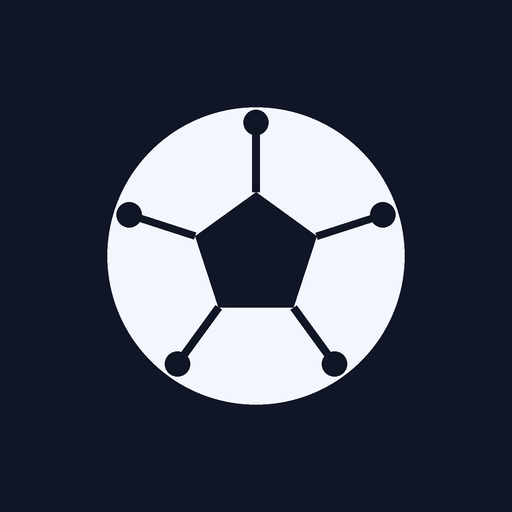
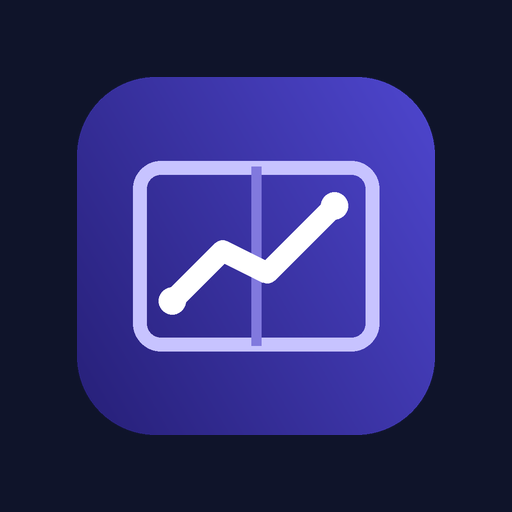
feat(web): refresh branding and add social previews

diff --git a/apps/web/src/app/page.tsx b/apps/web/src/app/page.tsx
@@ -1,44 +1,46 @@
 import { useTranslations } from 'next-intl'
+import Image from 'next/image'
 import Link from 'next/link'
 import { Container } from '@/components/ui/grid'
 import { Button } from '@/components/ui/button'
 import { ArrowRight } from 'lucide-react'
 import { PlatformOverview } from '@/components/home/PlatformOverview'
+import stadium from '@/assets/brand/stadium.webp'
 
 export default function Home() {
   const t = useTranslations('Home')
   return (
-    <div className="flex flex-col gap-16 pb-16">
-      {/* Hero Section */}
-      <section className="relative overflow-hidden pt-24 lg:pt-32">
-        <div className="absolute inset-0 bg-grid-white/[0.02] bg-[size:32px_32px] dark:bg-grid-black/[0.02]" />
-        <Container className="relative z-10 flex flex-col items-center text-center">
-          <div className="inline-flex items-center rounded-full border border-primary/20 bg-primary/10 px-3 py-1 text-sm font-medium text-primary mb-8 animate-fade-in">
-            <span className="flex h-2 w-2 rounded-full bg-primary mr-2 animate-pulse" />
+    <div className="flex flex-col gap-12 pb-12 lg:pb-16">
+      <section className="pt-10 sm:pt-16 lg:pt-20">
+        <Container className="flex flex-col items-center text-center">
+          <div className="mb-5 inline-flex items-center gap-2 rounded-full border border-primary/20 bg-primary/10 px-3 py-1 text-sm font-medium text-primary sm:mb-7">
+            <span aria-hidden="true" className="size-2 shrink-0 rounded-full bg-primary motion-safe:animate-pulse" />
             {t('live')}
           </div>
-          <h1 className="text-4xl font-extrabold tracking-tight sm:text-5xl md:text-6xl lg:text-7xl mb-6 max-w-4xl animate-slide-in">
+          <h1 className="mb-4 max-w-4xl text-4xl font-extrabold tracking-tight sm:text-5xl md:text-6xl lg:text-7xl">
             {t('hero')} <br className="hidden sm:block" />
-            <span className="text-gradient">{t('heroBrand')}</span>
+            <span className="text-primary">{t('heroBrand')}</span>
           </h1>
-          <p className="max-w-2xl text-lg text-muted-foreground sm:text-xl mb-10 animate-slide-in [animation-delay:150ms]">
+          <p className="mb-7 max-w-2xl text-base text-muted-foreground sm:text-xl">
             {t('description')}
           </p>
-          <div className="flex flex-col sm:flex-row gap-4 animate-slide-in [animation-delay:300ms]">
+          <Button asChild size="lg" className="h-12 gap-2 px-8 text-base">
             <Link href="/matches">
-              <Button size="lg" className="h-12 px-8 text-base shadow-lg shadow-primary/20 transition-transform hover:scale-105">
-                {t('start')} <ArrowRight className="ml-2 h-4 w-4" />
-              </Button>
+              {t('start')} <ArrowRight className="size-4" aria-hidden="true" />
             </Link>
+          </Button>
+          <div className="relative mt-8 aspect-[16/10] w-full max-w-6xl overflow-hidden rounded-xl border bg-muted sm:mt-10 sm:aspect-[3/1]">
+            <Image
+              src={stadium}
+              alt=""
+              fill
+              preload
+              unoptimized
+              className="object-cover object-[center_64%]"
+            />
           </div>
         </Container>
       </section>
-
-      {/* Decorative line */}
-      <div className="w-full flex justify-center overflow-hidden">
-        <div className="w-full max-w-7xl h-px line-t opacity-50" />
-      </div>
-
       <PlatformOverview />
     </div>
   )

diff --git a/apps/web/src/components/navigation/Header.tsx b/apps/web/src/components/navigation/Header.tsx
@@ -4,6 +4,7 @@ import Link from 'next/link'
 import { usePathname } from 'next/navigation'
 import { Menu } from 'lucide-react'
 import { useTranslations } from 'next-intl'
+import { BrandLink } from './BrandLink'
 import { GlobalSearch } from './GlobalSearch'
 import { PwaInstall } from './PwaInstall'
 import { LanguageSwitch } from './LanguageSwitch'
@@ -29,7 +30,7 @@ function Navigation({ mobile = false }: { mobile?: boolean }) {
   const active = [...links].reverse().find(({ href }) => pathname === href || pathname.startsWith(`${href}/`))
 
   return (
-    <nav aria-label={t('primary')} className={mobile ? 'grid gap-1' : 'hidden items-center gap-4 lg:flex'}>
+    <nav aria-label={t('primary')} className={mobile ? 'grid gap-1' : 'hidden items-center gap-4 xl:flex'}>
       {links.map(({ href, label }) => {
         const link = (
           <Link
@@ -56,7 +57,7 @@ export function Header() {
   return (
     <header className="sticky top-0 z-50 w-full border-b border-border/40 bg-background/95 backdrop-blur">
       <div className="container mx-auto flex h-16 items-center justify-between gap-4 px-4 sm:px-6 lg:px-8">
-        <Link href="/" className="shrink-0 whitespace-nowrap text-xl font-bold tracking-tighter">FA Pro</Link>
+        <BrandLink />
         <Navigation />
         <div className="flex shrink-0 items-center gap-1">
           <PwaInstall />
@@ -65,7 +66,7 @@ export function Header() {
           <ThemeToggle />
           <Dialog>
             <DialogTrigger asChild>
-              <Button className="lg:hidden" variant="ghost" size="icon" aria-label={t('menu')}>
+              <Button className="xl:hidden" variant="ghost" size="icon" aria-label={t('menu')}>
                 <Menu className="size-5" aria-hidden="true" />
               </Button>
             </DialogTrigger>

diff --git a/apps/web/src/app/layout.tsx b/apps/web/src/app/layout.tsx
@@ -14,10 +14,23 @@ const inter = Inter({
   variable: '--font-inter',
 })
 
+const title = 'Football Analytics Pro'
+const description = 'Follow live football scores, explore match insights, and compare player statistics.'
+const socialPreview = {
+  url: '/social-preview.jpg',
+  width: 1200,
+  height: 630,
+  alt: 'Football Analytics Pro — live scores, match insights, and player stats',
+}
+const deploymentHost = process.env.VERCEL_PROJECT_PRODUCTION_URL || process.env.VERCEL_URL
+
 export const metadata: Metadata = {
-  title: 'Football Analytics Pro',
-  description:
-    'Premium football analytics and data insights platform.',
+  metadataBase: new URL(process.env.NEXT_PUBLIC_APP_URL?.trim() ||
+    (deploymentHost ? `https://${deploymentHost}` : 'http://localhost:3000')),
+  title,
+  description,
+  openGraph: { type: 'website', siteName: title, title, description, images: [socialPreview] },
+  twitter: { card: 'summary_large_image', title, description, images: [socialPreview] },
 }
 
 export default async function RootLayout({

diff --git a/apps/web/src/app/login/page.tsx b/apps/web/src/app/login/page.tsx
@@ -8,6 +8,7 @@ import { signIn } from 'next-auth/react'
 import { useSearchParams } from 'next/navigation'
 import { Suspense } from 'react'
 import Link from 'next/link'
+import { BrandLink } from '@/components/navigation/BrandLink'
 import { Button } from '@/components/ui/button'
 import { Input } from '@/components/ui/input'
 import { Label } from '@/components/ui/label'
@@ -56,12 +57,8 @@ function LoginForm() {
   return (
     <div className="min-h-screen flex items-center justify-center bg-background px-4">
       <div className="w-full max-w-md">
-        {/* Logo / Brand */}
         <div className="text-center mb-8">
-          <Link href="/" className="inline-flex items-center gap-2 text-primary font-bold text-2xl">
-            <span className="text-3xl">⚽</span>
-            Football Analytics
-          </Link>
+          <BrandLink fullName />
           <p className="text-muted-foreground text-sm mt-2">{t('access')}</p>
         </div>
 

diff --git a/apps/web/src/components/navigation/BrandLink.tsx b/apps/web/src/components/navigation/BrandLink.tsx
@@ -1,0 +1,20 @@
+import Image from 'next/image'
+import Link from 'next/link'
+import mark from '@/assets/brand/mark.png'
+import { cn } from '@/lib/utils'
+
+export function BrandLink({ fullName = false }: { fullName?: boolean }) {
+  const size = fullName ? 40 : 32
+
+  return (
+    <Link href="/" className={cn(
+      'inline-flex shrink-0 items-center gap-2 rounded-md font-bold tracking-tight focus-visible:outline-2 focus-visible:outline-offset-4 focus-visible:outline-ring',
+      fullName ? 'text-xl sm:text-2xl' : 'whitespace-nowrap text-lg',
+    )}>
+      <Image src={mark} alt="" width={size} height={size} className="shrink-0" unoptimized />
+      <span className={fullName ? undefined : 'max-[23rem]:sr-only'}>
+        {fullName ? 'Football Analytics Pro' : 'FA Pro'}
+      </span>
+    </Link>
+  )
+}
